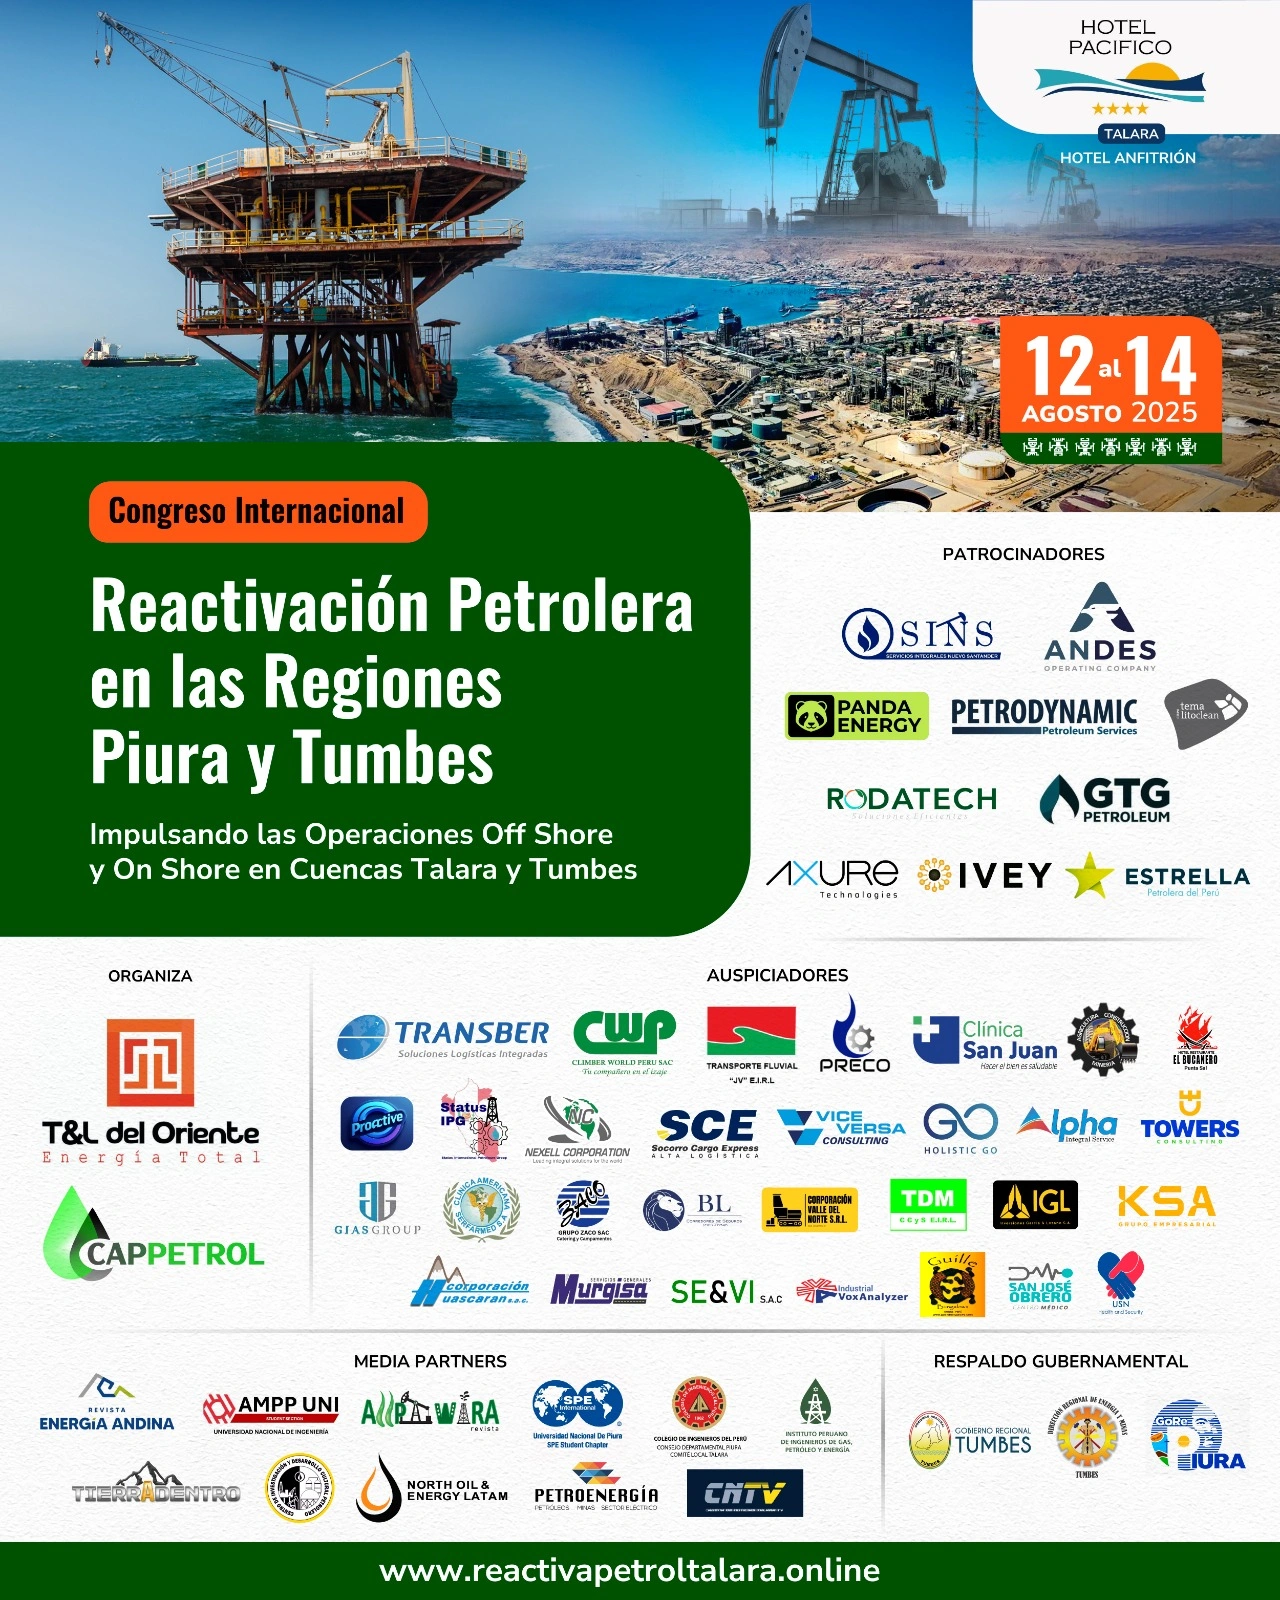
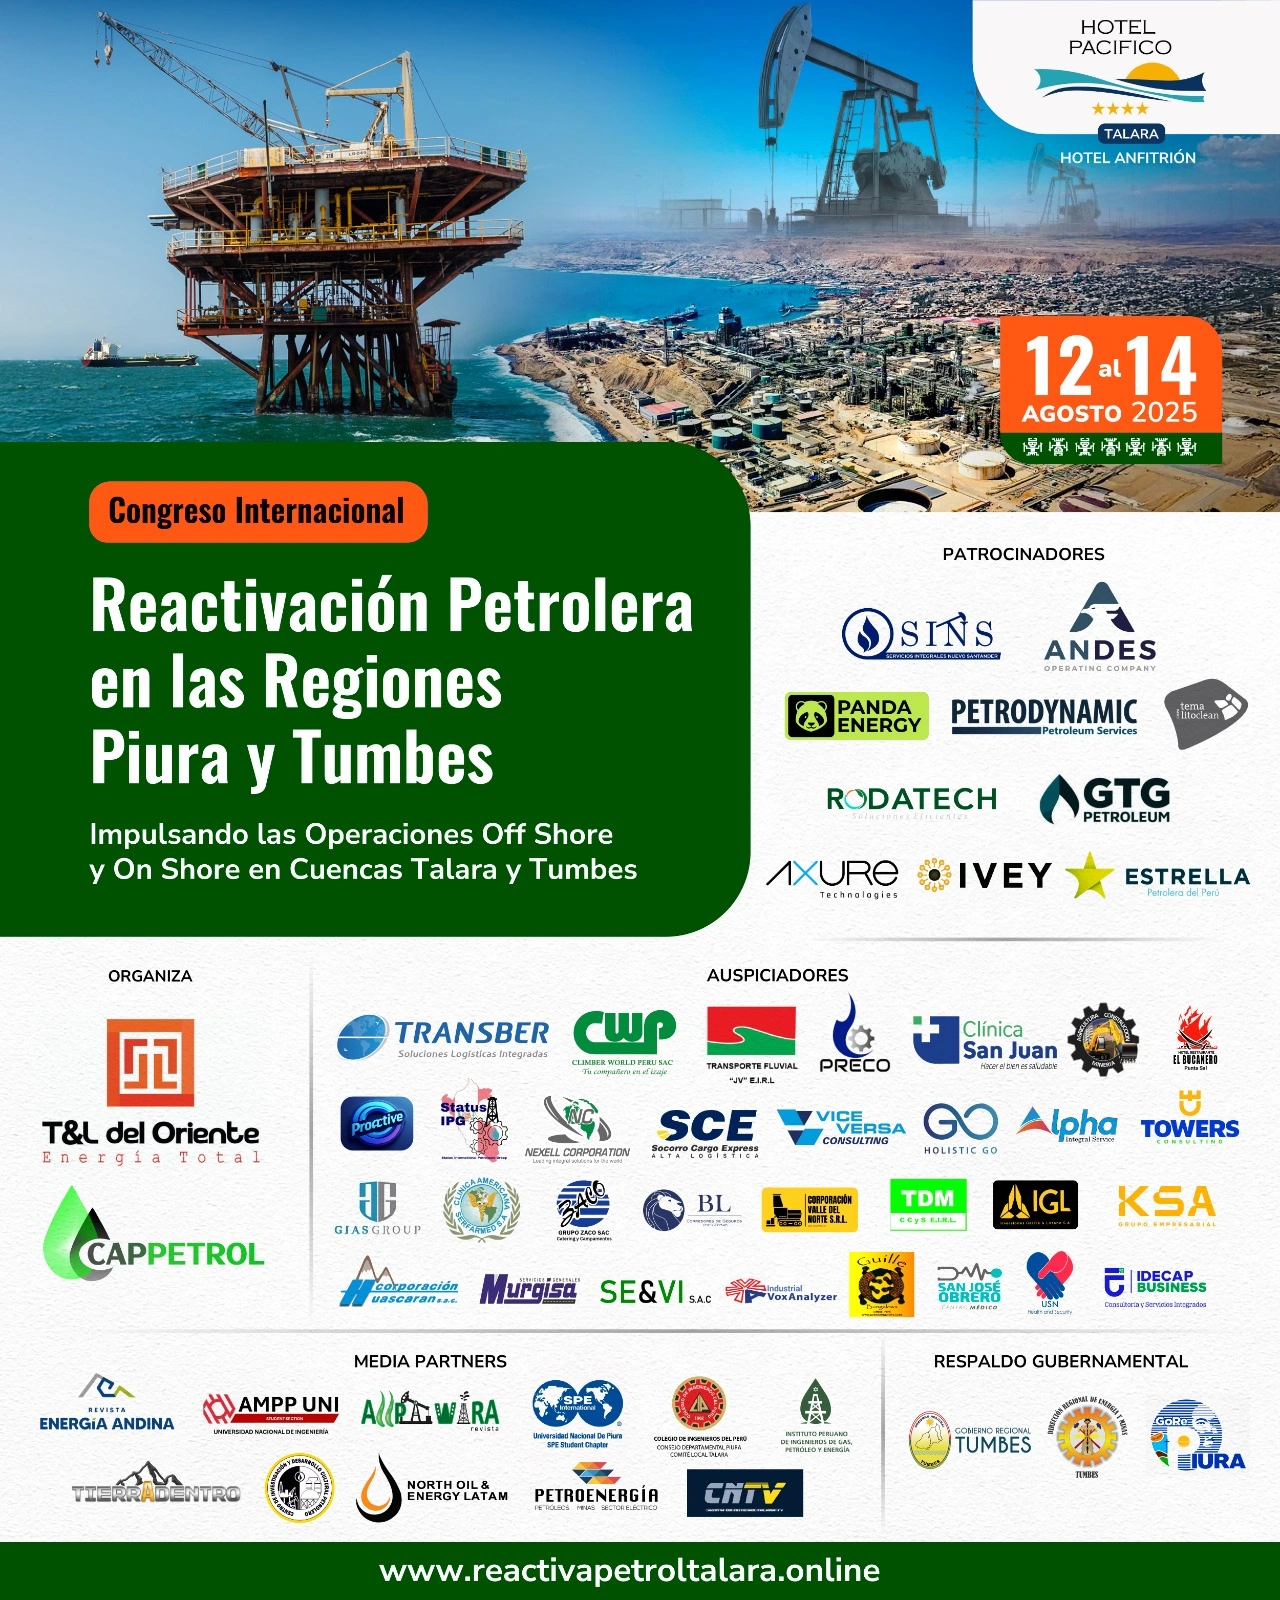
nuevas imagenes

Changed region(s): [[0.25, 0.7812, 0.9375, 0.8438]]

diff --git a/app/page.tsx b/app/page.tsx
@@ -1910,26 +1910,28 @@ export default function Home() {
                 </div>
                 {/* Agregar sexta fila con 3 recuadros adicionales */}
                 <div className="grid grid-cols-1 sm:grid-cols-2 lg:grid-cols-3 gap-4 sm:gap-6 md:gap-8 items-center justify-items-center mt-6">
-                  {["guille.webp", "sanjoseobrero.webp"].map((logo, index) => (
-                    <div
-                      key={index + 12}
-                      className="bg-white rounded-lg border-2 border-amber-500 shadow-md hover:shadow-lg transition-all duration-300 w-full max-w-[280px] flex items-center justify-center overflow-hidden group"
-                    >
-                      <Image
-                        src={logo}
-                        width={280}
-                        height={140}
-                        alt={
-                          index === 0
-                            ? "ProActive"
-                            : index === 1
-                            ? "Industrial Vox Analyzer"
-                            : "TRANSBER - Soluciones Logísticas Integradas"
-                        }
-                        className="w-auto h-auto max-w-full max-h-full object-contain group-hover:scale-[1.03] transition-transform duration-300"
-                      />
-                    </div>
-                  ))}
+                  {["guille.webp", "sanjoseobrero.webp", "idecap.jpg"].map(
+                    (logo, index) => (
+                      <div
+                        key={index + 12}
+                        className="bg-white rounded-lg border-2 border-amber-500 shadow-md hover:shadow-lg transition-all duration-300 w-full max-w-[280px] flex items-center justify-center overflow-hidden group"
+                      >
+                        <Image
+                          src={logo}
+                          width={280}
+                          height={140}
+                          alt={
+                            index === 0
+                              ? "ProActive"
+                              : index === 1
+                              ? "Industrial Vox Analyzer"
+                              : "TRANSBER - Soluciones Logísticas Integradas"
+                          }
+                          className="w-auto h-auto max-w-full max-h-full object-contain group-hover:scale-[1.03] transition-transform duration-300"
+                        />
+                      </div>
+                    )
+                  )}
                 </div>
                 {/* Agregar septima fila con 3 recuadros adicionales */}
                 {/* <div className="grid grid-cols-1 sm:grid-cols-2 lg:grid-cols-3 gap-4 sm:gap-6 md:gap-8 items-center justify-items-center mt-6">
